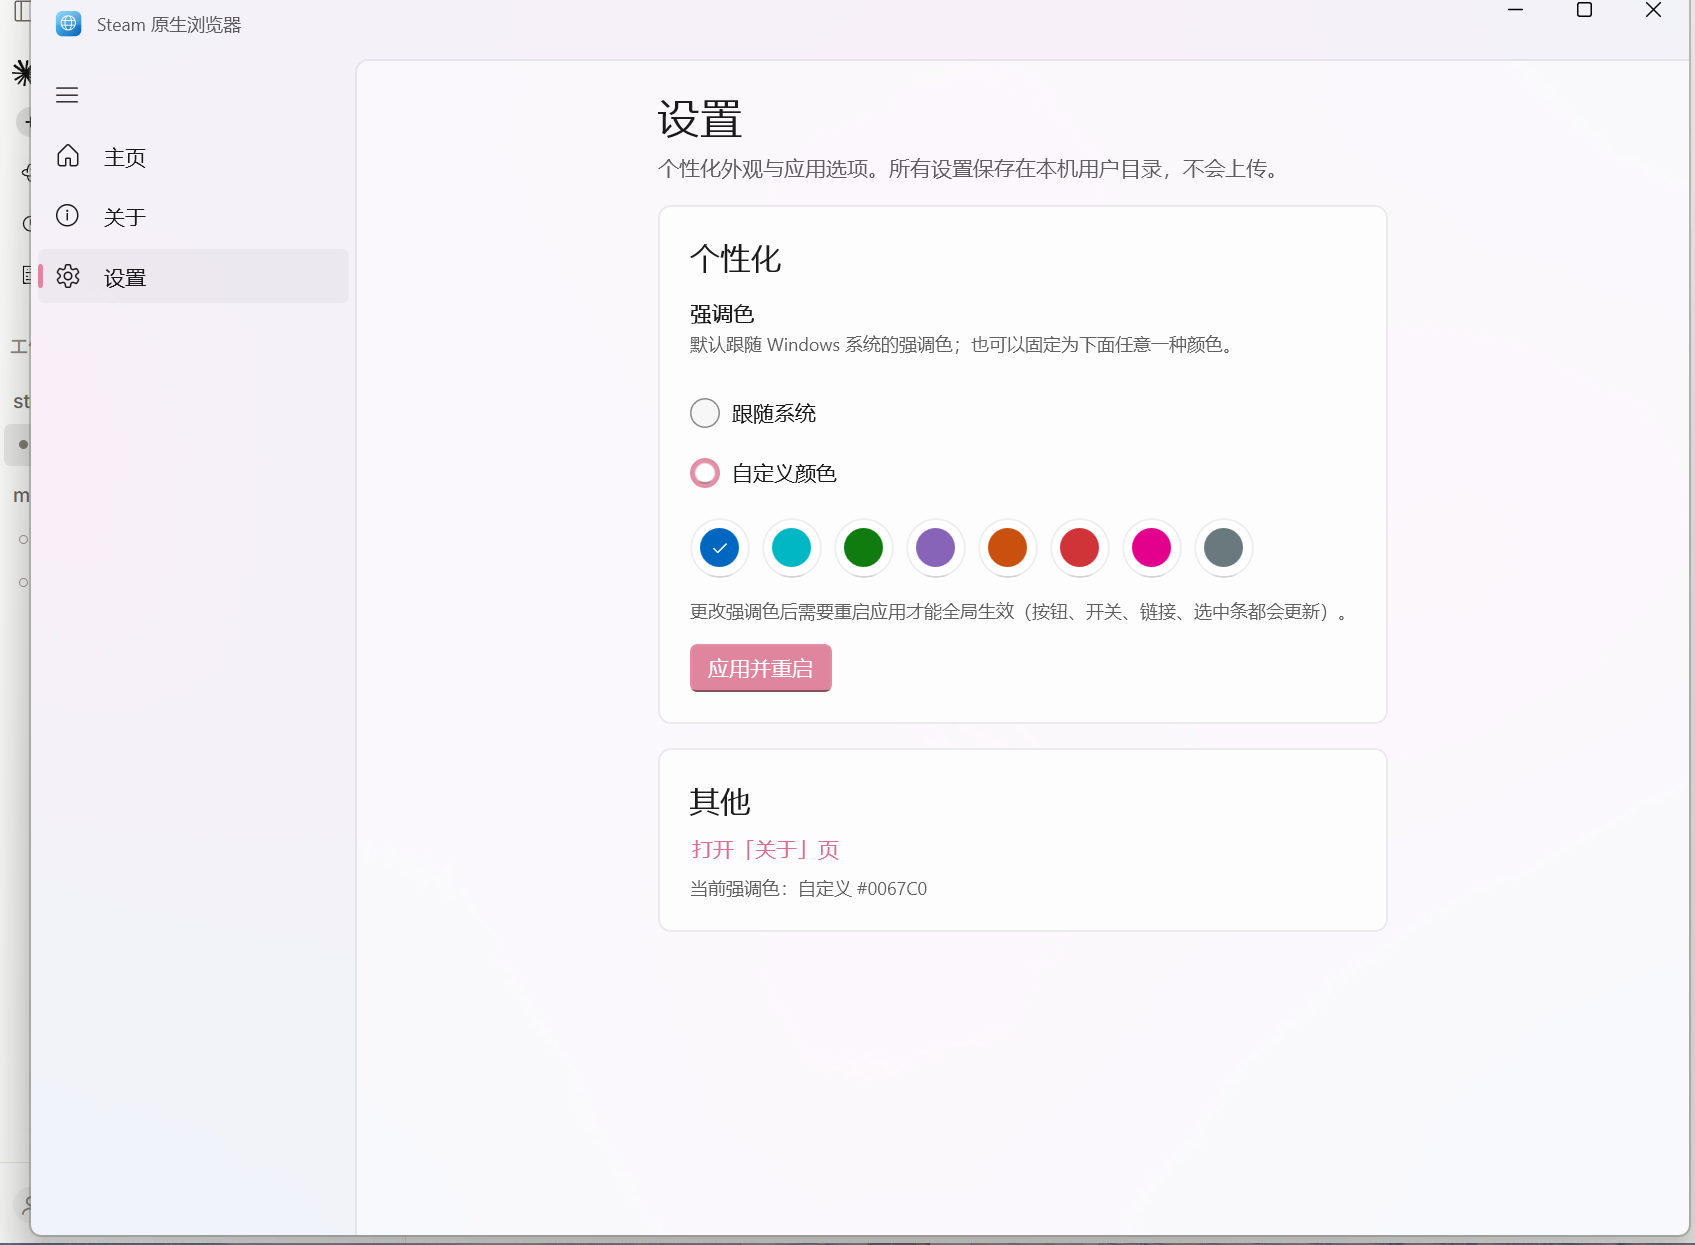
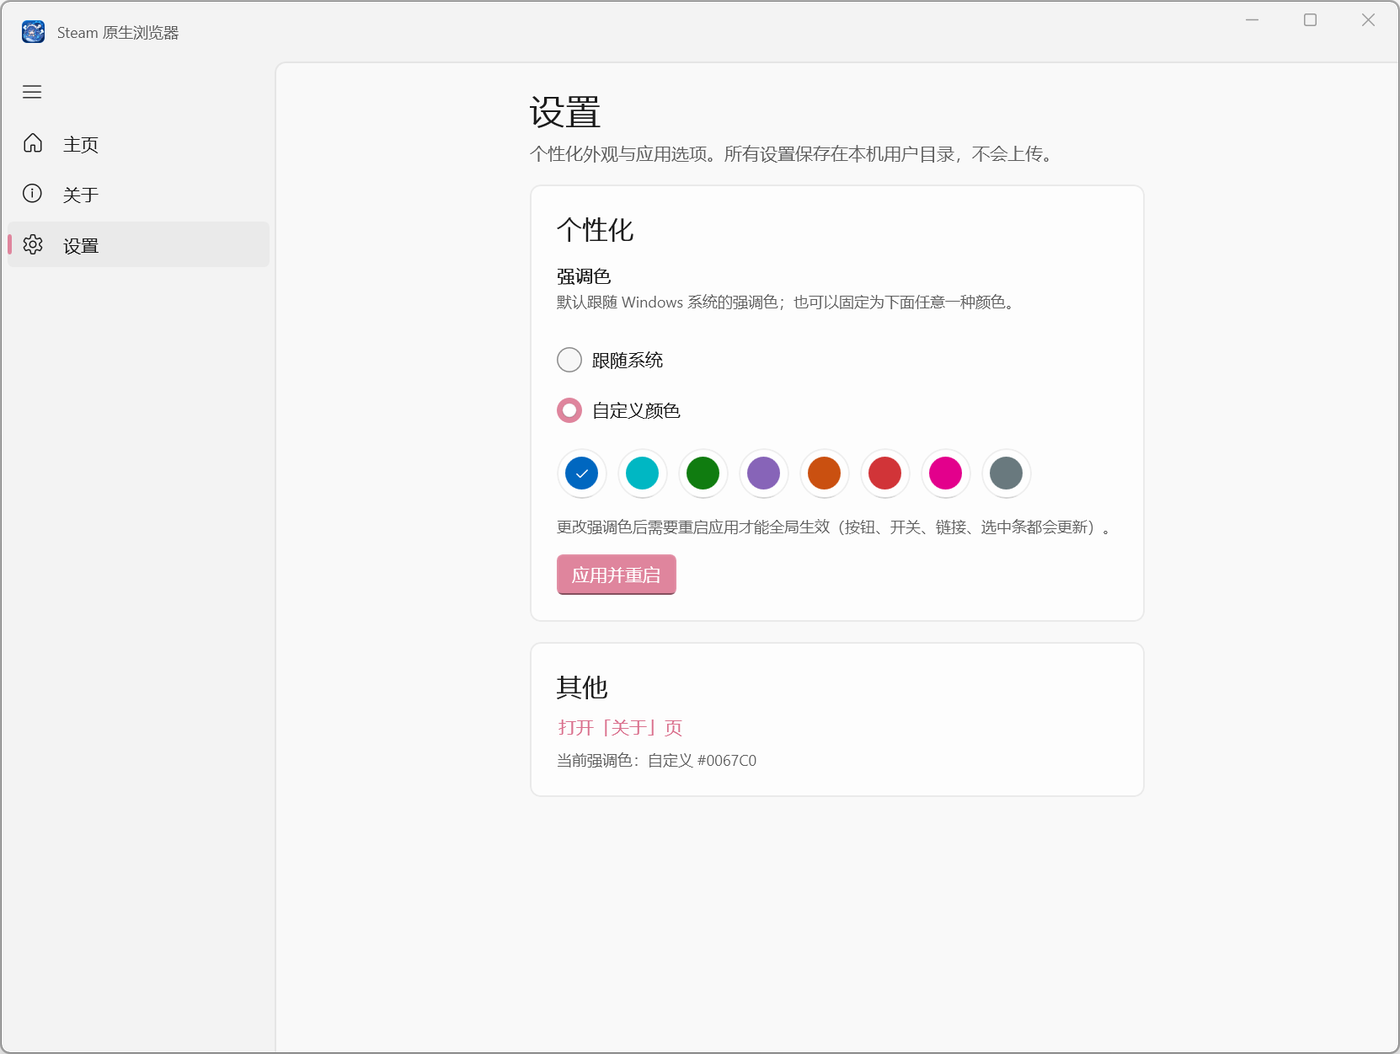
docs: 中文 README 作为默认，英文版独立为 README.en.md；重截设置页

diff --git a/README.md b/README.md
@@ -1,92 +1,90 @@
-# Steam Native Browser
+# Steam 原生浏览器
 
-**Open a real Chromium window from inside Steam's own CEF process.**
+**从 Steam 自己的 CEF 进程内部，弹出一个完整的 Chromium 窗口。**
+
+**简体中文** · [English](README.en.md)
 
 [![License: MIT](https://img.shields.io/badge/License-MIT-blue.svg)](LICENSE)
 ![Platform](https://img.shields.io/badge/platform-Windows%2010%2F11-0078D4)
 ![.NET](https://img.shields.io/badge/.NET-8.0-512BD4)
 ![WinUI](https://img.shields.io/badge/UI-WinUI%203%20%2F%20Windows%20App%20SDK%201.7-0067C0)
 
-Steam's built-in browser is a stripped-down CEF view without tabs or an address bar. Steam Native Browser
-locates your Steam installation, enables the CEF debugging port (`127.0.0.1:8080`), and asks Steam's own
-browser process to open a **full Chromium window** — tab strip, omnibox, bookmarks, extensions and all.
+Steam 内置浏览器是一个没有地址栏、没有多标签的简化 CEF 视图。**Steam 原生浏览器**会自动定位 Steam，
+开启 CEF 调试端口（`127.0.0.1:8080`），然后让 Steam 自己的浏览器进程打开一个**完整的 Chromium 窗口**——
+标签栏、地址栏、书签、扩展按钮一应俱全。
 
-The UI is built with **WinUI 3 / Windows App SDK 1.7** on **.NET 8**, with Mica, Fluent controls,
-light/dark themes, a settings page (accent color) and an about page.
+界面使用 **WinUI 3 / Windows App SDK 1.7** + **.NET 8** 构建，支持 Mica、Fluent 控件、明暗主题，
+并带有设置页（强调色）与关于页。
 
-> The application UI is in Simplified Chinese; this README documents it in English.
+![主页](docs/winui-home.png)
 
-![Home](docs/winui-home.png)
-
-| About | Settings |
+| 关于 | 设置 |
 |---|---|
-| ![About](docs/winui-about.png) | ![Settings](docs/winui-settings.png) |
+| ![关于](docs/winui-about.png) | ![设置](docs/winui-settings.png) |
 
-## Highlights
+## 亮点
 
-- **Automatic Steam discovery** — registry (`HKCU\Software\Valve\Steam`, `HKLM\...\Valve\Steam`), running
-  `steam.exe`, common install paths, and a fixed-drive fallback scan.
-- **Automatic CEF mode** — probes `127.0.0.1:8080`, verifies the `Valve Steam Client` user agent, and if
-  needed restarts Steam with `-cef-enable-debugging -dev`.
-- **Two launch modes** — a plugin-free DevTools mode and an optional extension mode, with automatic fallback.
-- **Permission-aware** — if the current process cannot write Steam's registry key (low-integrity sandbox or a
-  key rewritten by an elevated process), the app requests UAC **for Steam only**.
-- **WinUI 3 shell** — Mica backdrop, NavigationView, SelectorBar, InfoBar, rounded cards, Fluent icons.
-- **Configurable accent color** — follow Windows by default, or pin one of 8 built-in colors.
+- **自动定位 Steam**：注册表（`HKCU\Software\Valve\Steam`、`HKLM\...\Valve\Steam`）、运行中的
+  `steam.exe`、常见安装目录，最后兜底扫描固定磁盘。
+- **自动开启 CEF 调试**：探测 `127.0.0.1:8080` 并校验 `Valve Steam Client` UA；没开就使用
+  `-cef-enable-debugging -dev` 启动 Steam（必要时先请求退出）。
+- **两种调出方式**：无需插件的 DevTools 方式，或可选的扩展方式，失败自动回退。
+- **权限自适应**：进程无法写 Steam 注册表时（低权限/沙箱，或注册表键被高权限改写过），
+  自动请求 UAC **只提权 Steam**。
+- **WinUI 3 界面**：Mica 背景、NavigationView、SelectorBar、InfoBar、圆角卡片、Fluent 图标。
+- **可配置强调色**：默认跟随 Windows，也可固定为 8 种内置颜色之一。
 
-## How it works
+## 工作原理
 
 ```
 ┌──────────────────────────────────────┐
 │ steam.exe                            │
 │  └─ steamwebhelper.exe  (CEF 126)    │
 │       ├─ 127.0.0.1:8080              │  ← /json/version, /json/list
-│       └─ the Chromium window we open │
+│       └─ 我们打开的 Chromium 窗口     │
 └──────────────────────────────────────┘
                  ▲
                  │ WebSocket / CDP
         SteamNativeBrowser.exe
 ```
 
-| Mode | Mechanism | Dependency |
+| 方式 | 机制 | 依赖 |
 |---|---|---|
-| **Built-in** (default) | Browser-level CDP `Target.createTarget` → Steam creates a new Chromium window | None |
-| **Extension** | Connect to an extension's MV3 service worker and call `chrome.windows.create` | At least one extension background running |
+| **内置方式**（默认） | 浏览器级 CDP `Target.createTarget` → 由 Steam 新建 Chromium 窗口 | 无 |
+| **插件方式** | 连接扩展的 MV3 Service Worker，调用 `chrome.windows.create` | 至少一个扩展后台在运行 |
 
-The built-in mode is the important finding: **no extension is required**. CEF exposes a browser-level
-WebSocket endpoint in `/json/version`, and `Target.createTarget` makes the Steam process create a full window.
+内置方式是最关键的发现：**完全不需要任何插件**。CEF 的 `/json/version` 暴露了浏览器级 WebSocket 地址，
+`Target.createTarget` 就能让 Steam 进程创建一个完整窗口。
 
-## Download
+## 下载
 
-Grab the latest **Portable** zip from [Releases](../../releases), extract it anywhere and run
-`SteamNativeBrowser.exe`. The package is self-contained: it bundles the Windows App SDK runtime and the
-.NET runtime, so no installation is needed.
+从 [Releases](https://github.com/tzhx12/steam-native-browser/releases/latest) 下载最新 **Portable** 压缩包，
+解压后直接运行 `SteamNativeBrowser.exe`。该包**自包含** Windows App SDK 运行时与 .NET 运行时，无需安装。
 
-Requirements:
+系统要求：
 
-- Windows 10 1809+ or Windows 11 (x64)
-- Steam installed and signed in at least once
+- Windows 10 1809+ 或 Windows 11（x64）
+- Steam 已安装并至少登录过一次
 
-## Usage
+## 使用
 
-1. Launch `SteamNativeBrowser.exe`.
-2. Confirm the detected Steam path (use **Browse…** if it is wrong).
-3. Pick a launch mode (built-in is recommended) and optionally a URL.
-4. Click **Open Browser Window**.
+1. 启动 `SteamNativeBrowser.exe`。
+2. 确认自动检测到的 Steam 路径（不对就点「浏览…」）。
+3. 选择调出方式（推荐内置方式），按需填写要打开的地址。
+4. 点「一键调出浏览器窗口」。
 
-If Steam is not running in CEF mode, the app handles it — including a UAC prompt when Steam needs elevated
-rights to write its registry key.
+如果 Steam 没开 CEF，程序会自动处理；需要时会在启动 Steam 时请求 UAC。
 
-Validated: Windows 11, Steam CEF `Chrome/126.0.6478.183`, built-in and extension modes both tested.
+已验证：Windows 11，Steam CEF `Chrome/126.0.6478.183`，内置方式与插件方式均通过。
 
-## Settings
+## 设置
 
-- **Accent color** — follow the system accent (default) or pick a custom color. Applied on restart.
-- Stored at `%LOCALAPPDATA%\SteamNativeBrowser\settings.json`.
+- **强调色**：默认跟随系统，也可选择 8 种内置颜色；点「应用并重启」后全局生效。
+- 设置保存在 `%LOCALAPPDATA%\SteamNativeBrowser\settings.json`。
 
-## Build from source
+## 从源码构建
 
-Requirements: .NET 8 SDK, Windows 10/11 SDK (the NuGet packages are restored automatically).
+需要 .NET 8 SDK 与 Windows 10/11 SDK（NuGet 包会自动还原）。
 
 ```powershell
 git clone https://github.com/tzhx12/steam-native-browser.git
@@ -94,44 +92,42 @@ cd steam-native-browser
 dotnet build src\SteamNativeBrowser.WinUI\SteamNativeBrowser.WinUI.csproj -c Release
 ```
 
-Portable publish:
+便携版发布：
 
 ```powershell
 dotnet publish src\SteamNativeBrowser.WinUI\SteamNativeBrowser.WinUI.csproj `
   -c Release -r win-x64 --self-contained true -o dist-winui
 ```
 
-WinUI 3 needs the Windows App SDK 1.7 packages plus `Microsoft.Windows.SDK.BuildTools.MSIX` when Visual
-Studio's MSIX tooling is not installed. The repository includes `tools/fetch_nuget.py` (stdlib-only, respects
-`HTTPS_PROXY`) to pre-fetch packages into a local feed for offline builds; see `NuGet.config` and
-`build-winui.ps1`.
+WinUI 3 需要 Windows App SDK 1.7 相关包；未安装 Visual Studio 的 MSIX 工具时还需要
+`Microsoft.Windows.SDK.BuildTools.MSIX`。本仓库提供 `tools/fetch_nuget.py`（仅标准库、支持 `HTTPS_PROXY`）
+用于离线预取 NuGet 包，参见 `NuGet.config` 与 `build-winui.ps1`。
 
-## Repository layout
+## 目录结构
 
 ```
 src/
-  SteamNativeBrowser.WinUI/   WinUI 3 app (main)
-    Pages/                    Home, About, Settings
-    Services/                 settings, accent color
-  SteamNativeBrowser/         legacy WPF app
-    Services/                 shared UI-agnostic services (Steam, CEF, CDP)
-dist/                         legacy single-file WPF build
-docs/                         screenshots
-tools/                        icon pipeline, offline NuGet fetcher
+  SteamNativeBrowser.WinUI/   WinUI 3 主程序
+    Pages/                    主页、关于、设置
+    Services/                 设置、强调色
+  SteamNativeBrowser/         旧版 WPF
+    Services/                 与 UI 无关的共享服务（Steam、CEF、CDP）
+dist/                         旧版 WPF 单文件
+docs/                         截图
+tools/                        图标管线、离线 NuGet 下载器
 ```
 
-## Permissions & security notes
+## 权限与安全提示
 
-- `-cef-enable-debugging` opens an **unauthenticated** DevTools port on `127.0.0.1:8080`. Any local process
-  can connect while it is open. Start Steam normally when you do not need this tool.
-- The app modifies Steam's launch arguments and may restart Steam. Make sure nothing important is pending.
-- Windows may show a publisher warning for the unsigned executable; choose **Run**.
-- The window belongs to Steam's CEF. It shares Steam's web cache and extensions and closes with Steam. It is
-  **not** your installed Chrome profile.
+- `-cef-enable-debugging` 会在 `127.0.0.1:8080` 开放**无鉴权**的调试端口，本机任意程序都能连接；
+  不需要时应以正常方式启动 Steam。
+- 程序会修改 Steam 启动参数并可能重启 Steam，请确认没有未保存的操作。
+- 可执行文件未签名，Windows 可能提示“无法验证发布者”，选择「运行」即可。
+- 调出的窗口属于 Steam 的 CEF，共享 Steam 的网页缓存与扩展，会随 Steam 退出而关闭；
+  它**不是**你系统里安装的 Chrome 配置。
 
-## License
+## 许可证
 
 [MIT](LICENSE) © 2026 SteamNativeLauncher contributors
 
-UI built with Microsoft WinUI 3 / Windows App SDK (MIT). Window creation uses the Chrome DevTools Protocol.
-App icon generated for this project.
+界面基于 Microsoft WinUI 3 / Windows App SDK（MIT）；窗口创建使用 Chrome DevTools Protocol；应用图标为项目定制生成。

diff --git a/README.en.md b/README.en.md
@@ -1,0 +1,141 @@
+# Steam Native Browser
+
+**English** · [简体中文](README.md)
+
+**Open a real Chromium window from inside Steam's own CEF process.**
+
+[![License: MIT](https://img.shields.io/badge/License-MIT-blue.svg)](LICENSE)
+![Platform](https://img.shields.io/badge/platform-Windows%2010%2F11-0078D4)
+![.NET](https://img.shields.io/badge/.NET-8.0-512BD4)
+![WinUI](https://img.shields.io/badge/UI-WinUI%203%20%2F%20Windows%20App%20SDK%201.7-0067C0)
+
+Steam's built-in browser is a stripped-down CEF view without tabs or an address bar. Steam Native Browser
+locates your Steam installation, enables the CEF debugging port (`127.0.0.1:8080`), and asks Steam's own
+browser process to open a **full Chromium window** — tab strip, omnibox, bookmarks, extensions and all.
+
+The UI is built with **WinUI 3 / Windows App SDK 1.7** on **.NET 8**, with Mica, Fluent controls,
+light/dark themes, a settings page (accent color) and an about page.
+
+> The application UI is in Simplified Chinese; this README documents it in English.
+
+![Home](docs/winui-home.png)
+
+| About | Settings |
+|---|---|
+| ![About](docs/winui-about.png) | ![Settings](docs/winui-settings.png) |
+
+## Highlights
+
+- **Automatic Steam discovery** — registry (`HKCU\Software\Valve\Steam`, `HKLM\...\Valve\Steam`), running
+  `steam.exe`, common install paths, and a fixed-drive fallback scan.
+- **Automatic CEF mode** — probes `127.0.0.1:8080`, verifies the `Valve Steam Client` user agent, and if
+  needed restarts Steam with `-cef-enable-debugging -dev`.
+- **Two launch modes** — a plugin-free DevTools mode and an optional extension mode, with automatic fallback.
+- **Permission-aware** — if the current process cannot write Steam's registry key (low-integrity sandbox or a
+  key rewritten by an elevated process), the app requests UAC **for Steam only**.
+- **WinUI 3 shell** — Mica backdrop, NavigationView, SelectorBar, InfoBar, rounded cards, Fluent icons.
+- **Configurable accent color** — follow Windows by default, or pin one of 8 built-in colors.
+
+## How it works
+
+```
+┌──────────────────────────────────────┐
+│ steam.exe                            │
+│  └─ steamwebhelper.exe  (CEF 126)    │
+│       ├─ 127.0.0.1:8080              │  ← /json/version, /json/list
+│       └─ the Chromium window we open │
+└──────────────────────────────────────┘
+                 ▲
+                 │ WebSocket / CDP
+        SteamNativeBrowser.exe
+```
+
+| Mode | Mechanism | Dependency |
+|---|---|---|
+| **Built-in** (default) | Browser-level CDP `Target.createTarget` → Steam creates a new Chromium window | None |
+| **Extension** | Connect to an extension's MV3 service worker and call `chrome.windows.create` | At least one extension background running |
+
+The built-in mode is the important finding: **no extension is required**. CEF exposes a browser-level
+WebSocket endpoint in `/json/version`, and `Target.createTarget` makes the Steam process create a full window.
+
+## Download
+
+Grab the latest **Portable** zip from [Releases](../../releases), extract it anywhere and run
+`SteamNativeBrowser.exe`. The package is self-contained: it bundles the Windows App SDK runtime and the
+.NET runtime, so no installation is needed.
+
+Requirements:
+
+- Windows 10 1809+ or Windows 11 (x64)
+- Steam installed and signed in at least once
+
+## Usage
+
+1. Launch `SteamNativeBrowser.exe`.
+2. Confirm the detected Steam path (use **Browse…** if it is wrong).
+3. Pick a launch mode (built-in is recommended) and optionally a URL.
+4. Click **Open Browser Window**.
+
+If Steam is not running in CEF mode, the app handles it — including a UAC prompt when Steam needs elevated
+rights to write its registry key.
+
+Validated: Windows 11, Steam CEF `Chrome/126.0.6478.183`, built-in and extension modes both tested.
+
+## Settings
+
+- **Accent color** — follow the system accent (default) or pick a custom color. Applied on restart.
+- Stored at `%LOCALAPPDATA%\SteamNativeBrowser\settings.json`.
+
+## Build from source
+
+Requirements: .NET 8 SDK, Windows 10/11 SDK (the NuGet packages are restored automatically).
+
+```powershell
+git clone https://github.com/tzhx12/steam-native-browser.git
+cd steam-native-browser
+dotnet build src\SteamNativeBrowser.WinUI\SteamNativeBrowser.WinUI.csproj -c Release
+```
+
+Portable publish:
+
+```powershell
+dotnet publish src\SteamNativeBrowser.WinUI\SteamNativeBrowser.WinUI.csproj `
+  -c Release -r win-x64 --self-contained true -o dist-winui
+```
+
+WinUI 3 needs the Windows App SDK 1.7 packages plus `Microsoft.Windows.SDK.BuildTools.MSIX` when Visual
+Studio's MSIX tooling is not installed. The repository includes `tools/fetch_nuget.py` (stdlib-only, respects
+`HTTPS_PROXY`) to pre-fetch packages into a local feed for offline builds; see `NuGet.config` and
+`build-winui.ps1`.
+
+## Repository layout
+
+```
+src/
+  SteamNativeBrowser.WinUI/   WinUI 3 app (main)
+    Pages/                    Home, About, Settings
+    Services/                 settings, accent color
+  SteamNativeBrowser/         legacy WPF app
+    Services/                 shared UI-agnostic services (Steam, CEF, CDP)
+dist/                         legacy single-file WPF build
+docs/                         screenshots
+tools/                        icon pipeline, offline NuGet fetcher
+```
+
+## Permissions & security notes
+
+- `-cef-enable-debugging` opens an **unauthenticated** DevTools port on `127.0.0.1:8080`. Any local process
+  can connect while it is open. Start Steam normally when you do not need this tool.
+- The app modifies Steam's launch arguments and may restart Steam. Make sure nothing important is pending.
+- Windows may show a publisher warning for the unsigned executable; choose **Run**.
+- The window belongs to Steam's CEF. It shares Steam's web cache and extensions and closes with Steam. It is
+  **not** your installed Chrome profile.
+
+## License
+
+[MIT](LICENSE) © 2026 SteamNativeLauncher contributors
+
+UI built with Microsoft WinUI 3 / Windows App SDK (MIT). Window creation uses the Chrome DevTools Protocol.
+App icon generated for this project.
+
+
